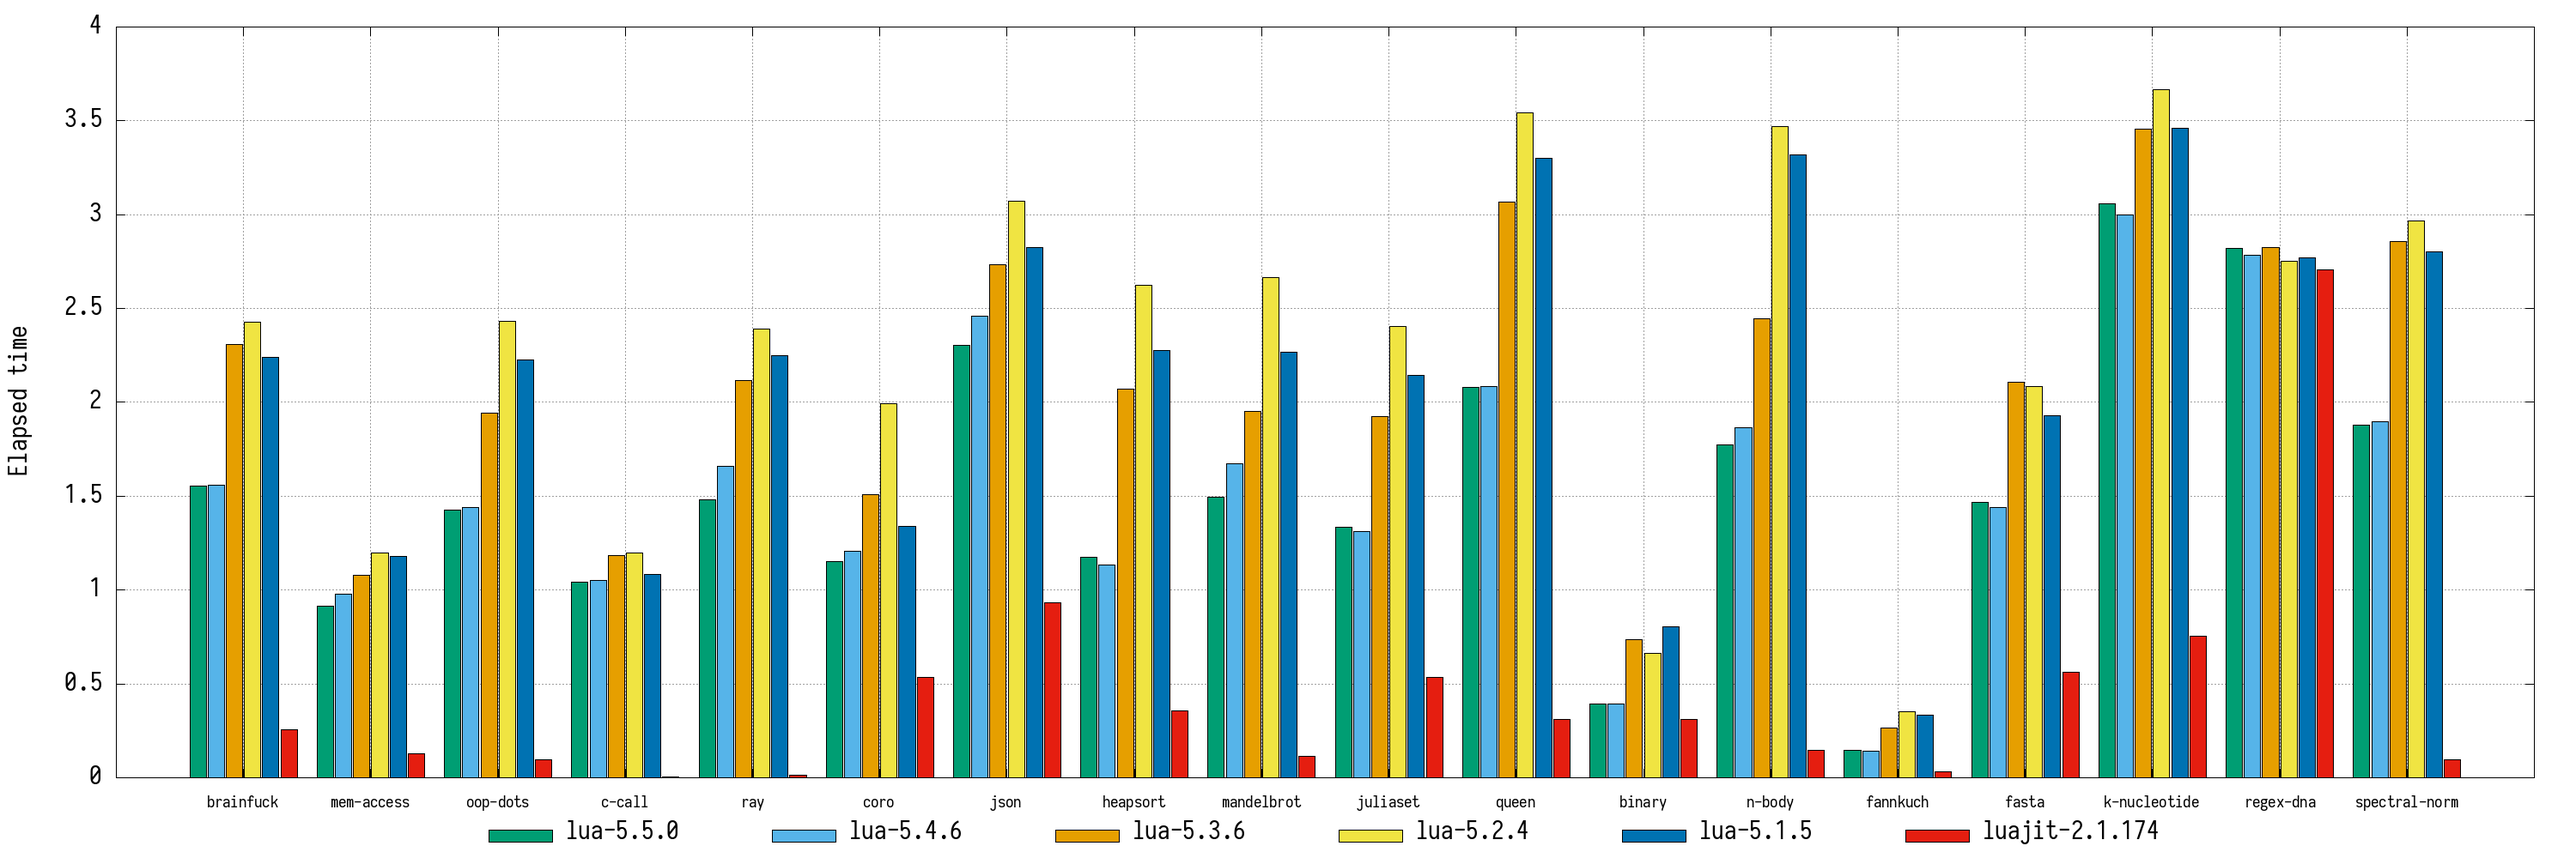
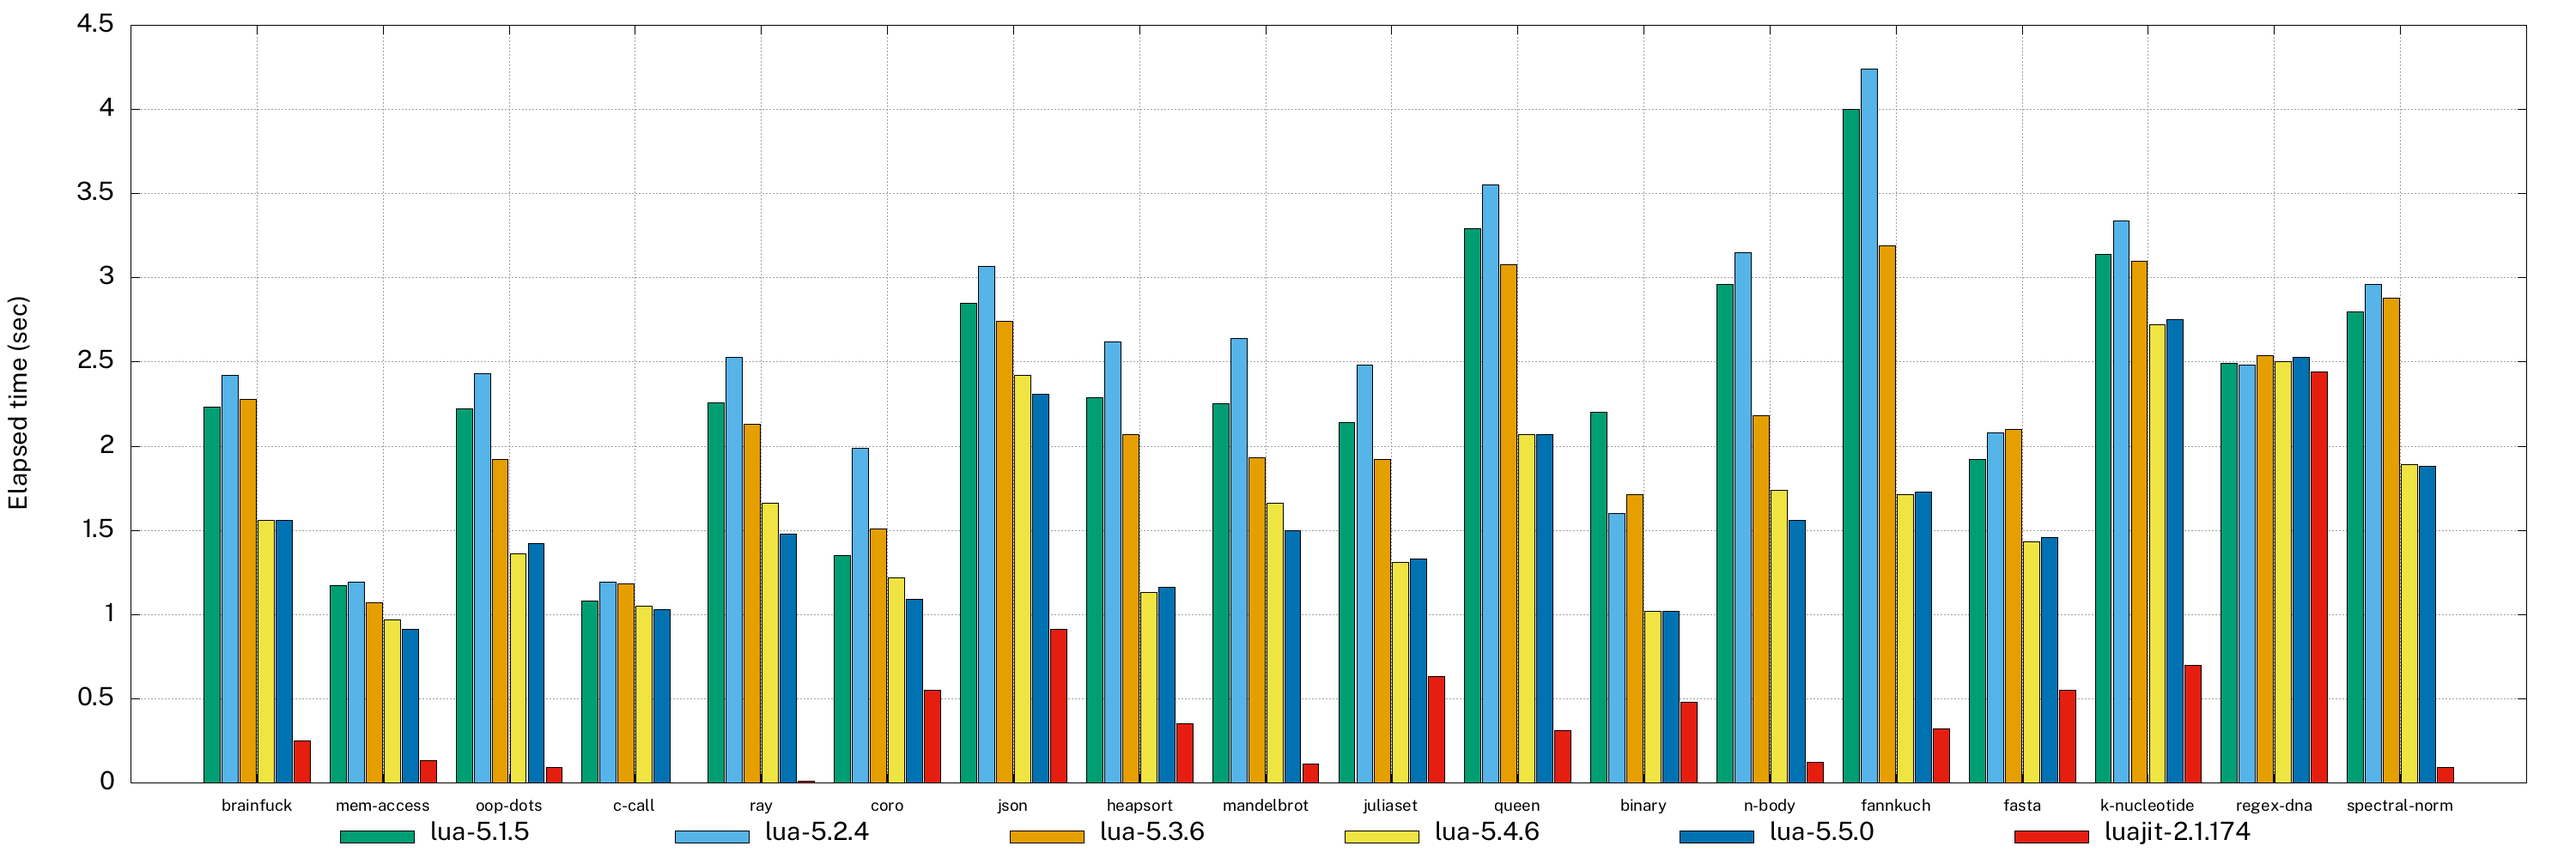
Split bench and plot

diff --git a/readme.md b/readme.md
@@ -14,6 +14,7 @@ Kernel: 6.12.62
 CPU:    Intel(R) N100 (4) @ 3.40 GHz
 ```
 ![](https://raw.githubusercontent.com/Jipok/Lua-Benchmarks/master/results.png)
+![](https://raw.githubusercontent.com/Jipok/Lua-Benchmarks/master/results-norm.png)
 
 ## 🧪 Test Suite
 
@@ -45,30 +46,36 @@ Standard benchmarks tailored for raw computation and algorithmic efficiency:
 ## 🚀 Usage
 
 ### Requirements
-*   **Bash** (The runner uses `TIMEFORMAT` for precision).
-*   **Gnuplot** (Optional, for generating graphs).
-*   Correctly named Lua binaries in your `$PATH` (e.g., `lua5.1`, `luajit`, etc.), or edit `runbenchmarks.lua` to match your system.
+*   **Lua** (to run the benchmark runner).
+*   **Gnuplot** (Required for generating PNG graphs via `plots.sh`).
+*   Correctly named Lua binaries in your `$PATH` (e.g., `lua5.1`, `luajit`, etc.), or edit `binaries` table in `runbenchmarks.lua`.
 
 ### Running tests
 
-Basic run (3 iterations per test):
-```bash
-lua runbenchmarks.lua
-```
+1. **Run the benchmarks:**
+   This will execute tests and automatically generate raw data (`.dat`), normalized data (`-norm.dat`), and speedup factors (`-speed.dat`).
+   
+   ```bash
+   lua runbenchmarks.lua
+   ```
 
-Generate speedup comparison relative to Lua 5.1:
-```bash
-lua runbenchmarks.lua --speedup --output comparison --nruns 5
-```
+2. **Generate Graphs:**
+   Use the included shell script to create PNG images from the generated data files. Pass the output base name used in step 1 (default is `results`).
 
-### Options
+   ```bash
+   chmod +x plot.sh
+   ./plot.sh results
+   ```
+   
+   > If you used a custom output name: `./plot.sh my_bench`
+
+### Options (`runbenchmarks.lua`)
+
 ```text
   --nruns <n>      Number of times each test is executed (default = 3)
-  --no-supress     Show full error messages from tests
-  --output <name>  Filename prefix for the output results (txt/png)
-  --normalize      Normalize the result based on the first binary
-  --speedup        Compute speedup factor based on the first binary
-  --no-plot        Skip Gnuplot generation
+  --no-supress     Show full error messages from tests (if they fail)
+  --output <name>  Filename prefix for the output results (default = 'results')
+                   Generates: <name>.dat, <name>-norm.dat, <name>-speed.dat
 ```
 
 ## Credits
